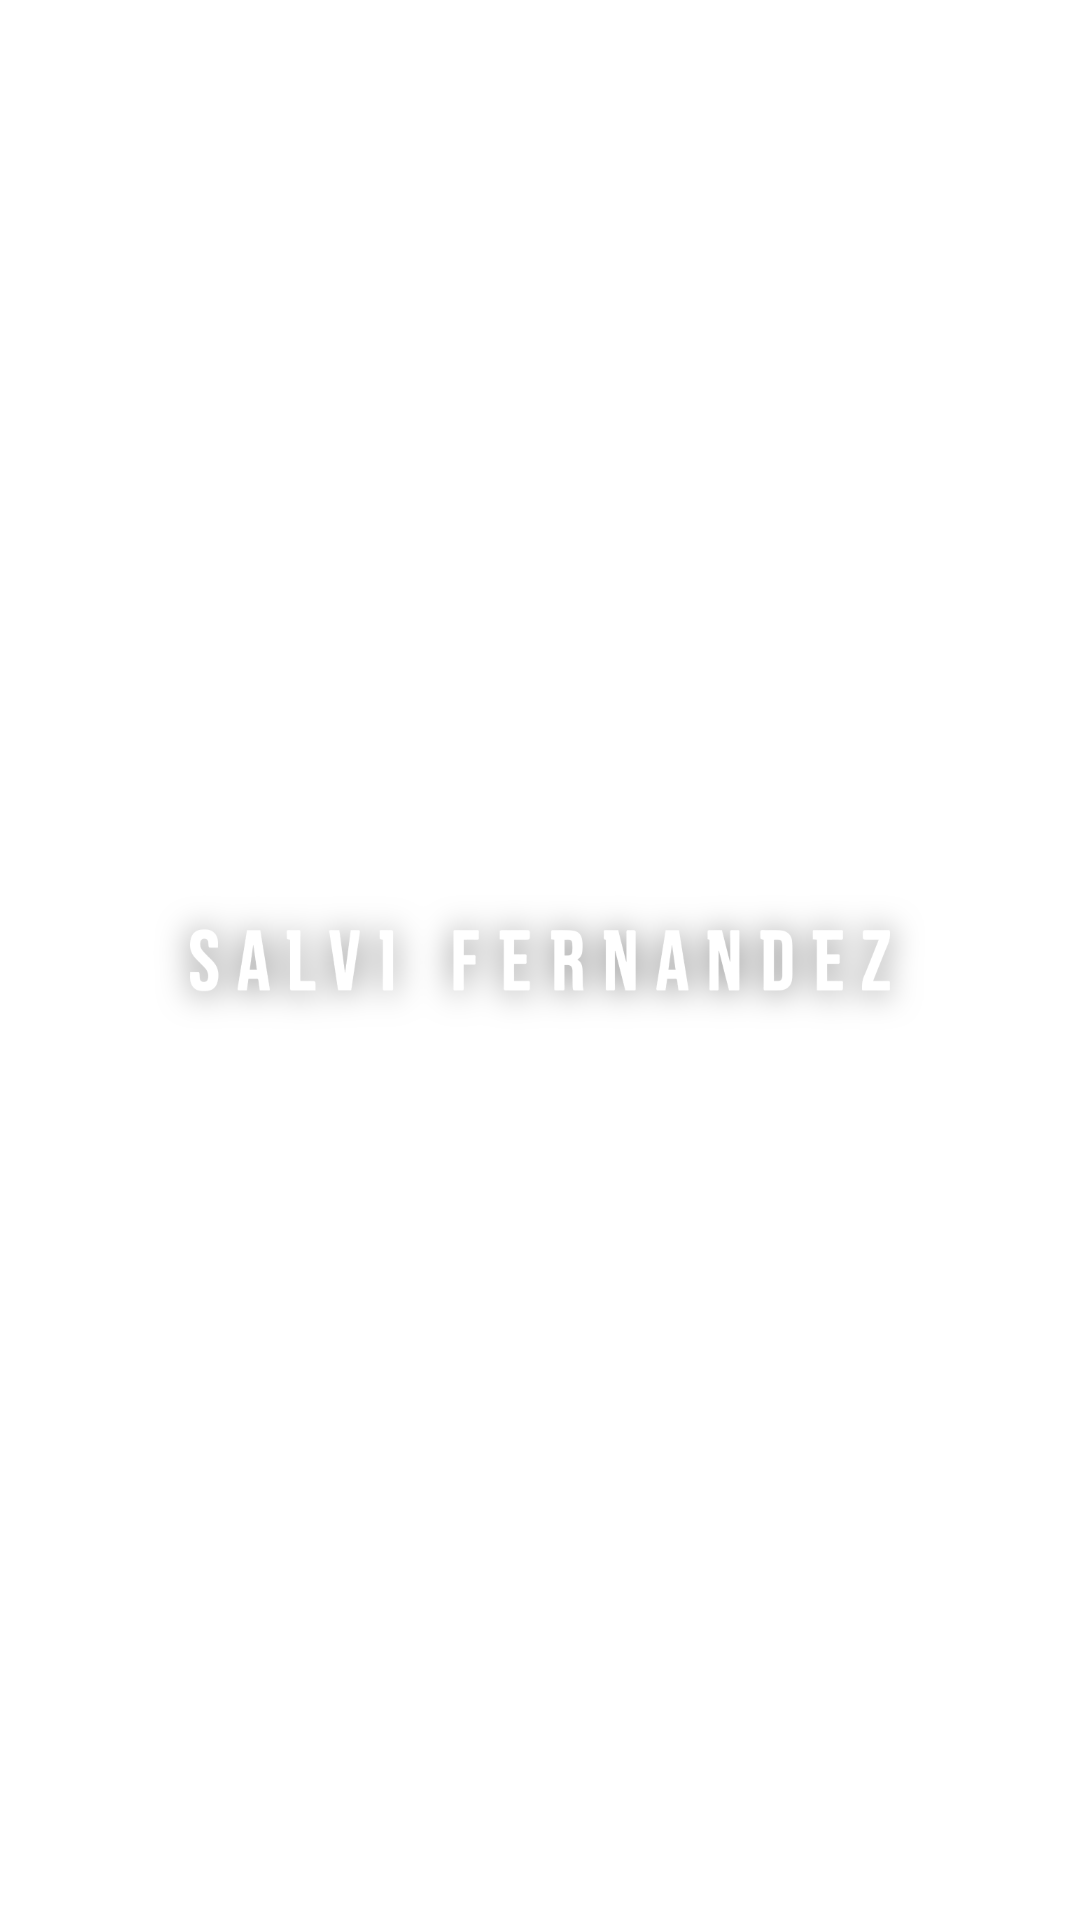
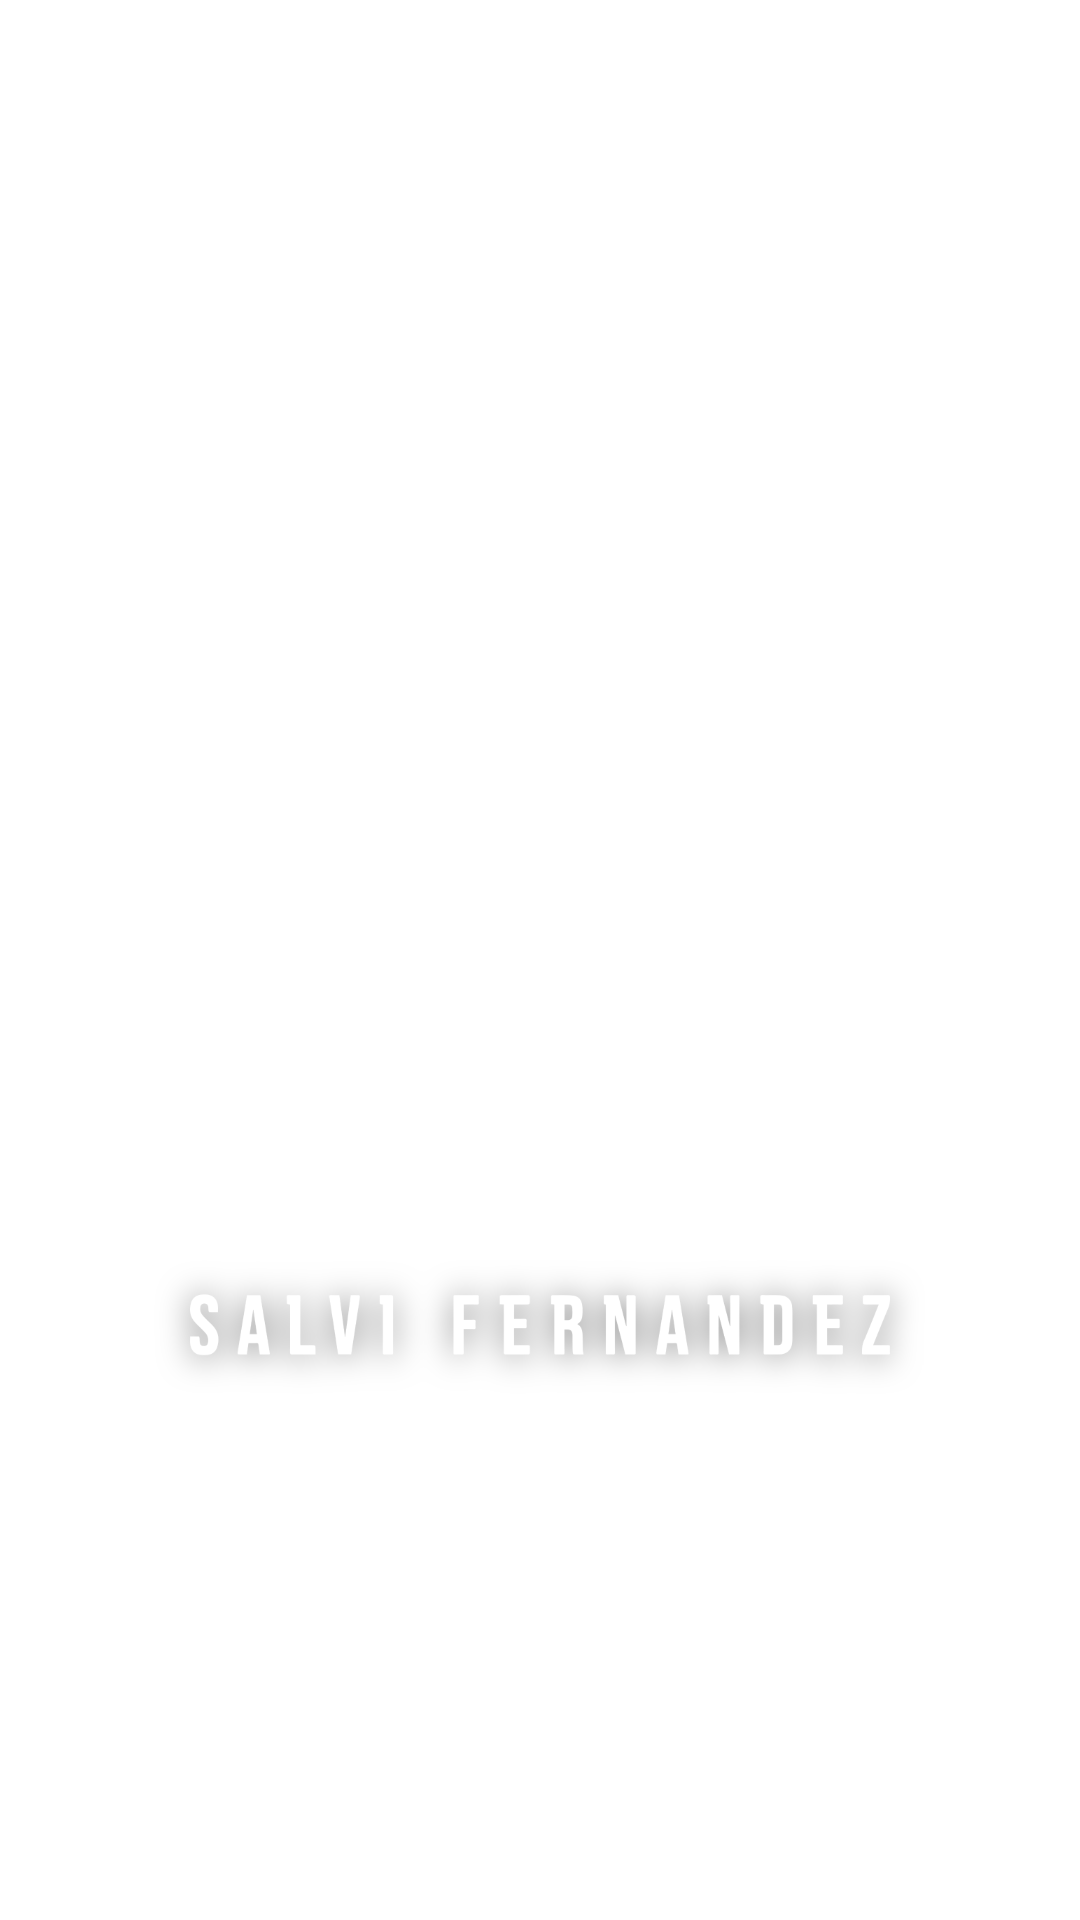
WARM 24.10 — straturi Story JUST2/Salvi coborâte sub fața artistului
Claude-Session: https://claude.ai/code/session_01PsYJ7xTqRMzxVLnVuQx1Lt

diff --git a/warm_24oct/reel/overlay_story.html b/warm_24oct/reel/overlay_story.html
@@ -11,7 +11,7 @@ img.sh{filter:drop-shadow(0 2px 16px rgba(0,0,0,.5))}
 /* persistent WARM */
 #warm img{position:absolute;top:280px;left:50%;transform:translateX(-50%);width:170px}
 /* lower-third scenes: anchored at y≈1030 */
-.lt{top:50%;transform:translateY(-50%)}
+.lt{top:69%;transform:translateY(-50%)}
 .j2{height:104px}
 .label{font-weight:500;font-size:19px;letter-spacing:.4em;padding-left:.4em;margin-top:18px}
 .n{font-weight:700;font-size:64px;line-height:1.04;letter-spacing:-.015em}
@@ -24,8 +24,8 @@ img.sh{filter:drop-shadow(0 2px 16px rgba(0,0,0,.5))}
 .place{font-weight:500;font-size:22px;letter-spacing:.14em;margin-top:22px;padding-left:.14em}
 /* end card: same stack as the poster */
 #end .mid{top:540px;transform:translateY(-50%)}
-#end .j2{height:100px}
-#end .label{font-size:18px;letter-spacing:.4em;margin:16px 0 64px}
+#end .j2{height:88px}
+#end .label{font-size:17px;letter-spacing:.4em;margin:14px 0 46px}
 #end .n{font-size:56px;line-height:1.02}
 #end .foot{bottom:96px}
 .fvenue b{display:block;font-weight:600;font-size:32px;letter-spacing:.2em;padding-left:.2em;line-height:1}

diff --git a/warm_24oct/reel/overlay_salvi_story.html b/warm_24oct/reel/overlay_salvi_story.html
@@ -11,7 +11,7 @@ img.sh{filter:drop-shadow(0 2px 16px rgba(0,0,0,.5))}
 /* persistent WARM */
 #warm img{position:absolute;top:280px;left:50%;transform:translateX(-50%);width:170px}
 /* lower-third scenes: anchored at y≈1030 */
-.lt{top:50%;transform:translateY(-50%)}
+.lt{top:69%;transform:translateY(-50%)}
 .j2{height:104px}
 .label{font-weight:500;font-size:19px;letter-spacing:.4em;padding-left:.4em;margin-top:18px}
 .n{font-weight:700;font-size:64px;line-height:1.04;letter-spacing:-.015em}
